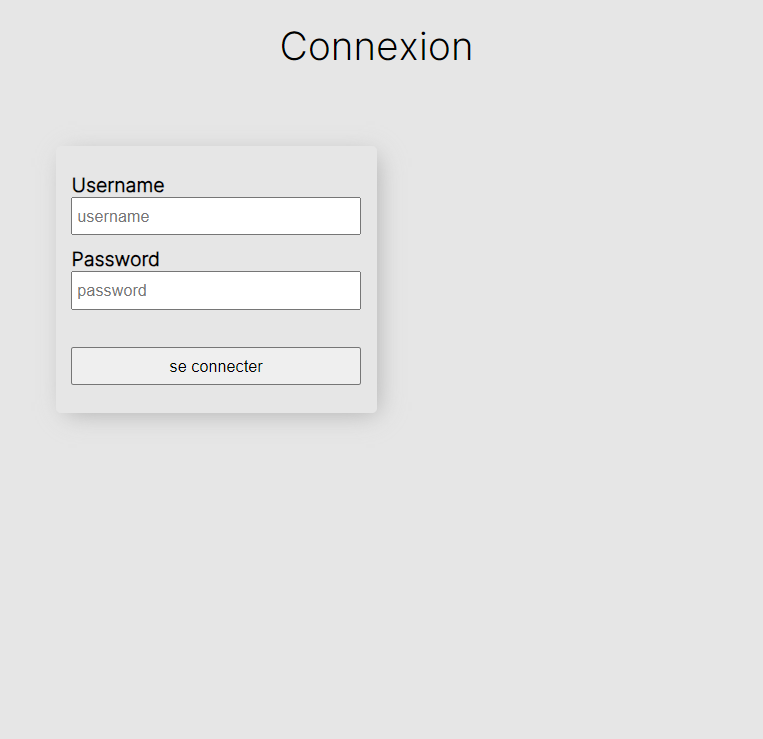
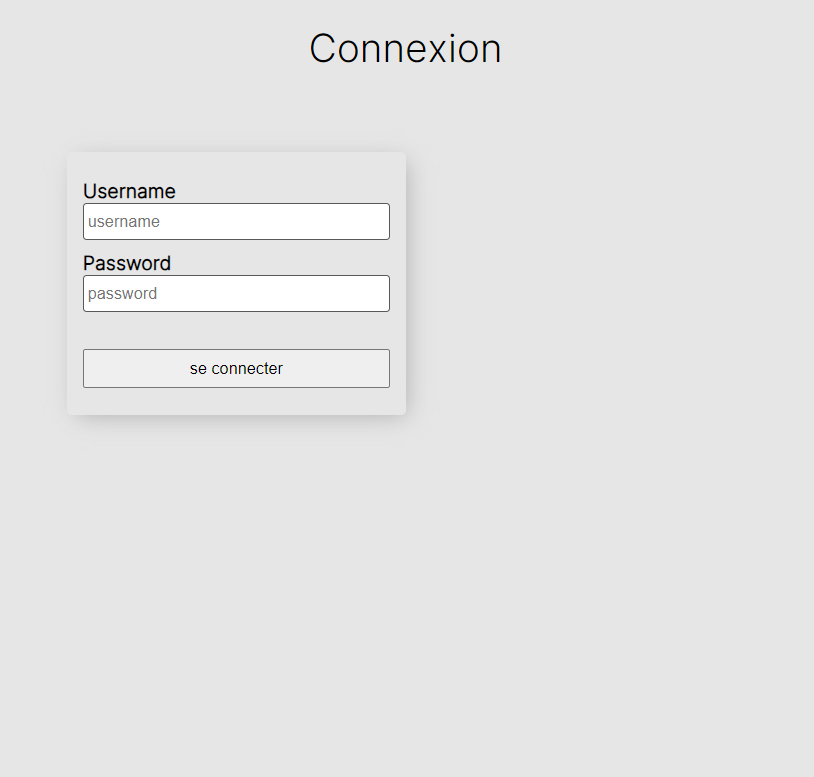
update

diff --git a/public/chat/chat.css b/public/chat/chat.css
@@ -1,55 +1,63 @@
-*{
+* {
     margin: 0;
     box-sizing: border-box;
 }
-.nav-chat ul{
+
+.nav-chat ul {
     padding: 0.2rem;
     display: flex;
-    justify-content:flex-start;
+    justify-content: flex-start;
     gap: 1rem;
     /* align-items: center; */
     list-style: none;
 }
+
 .nav-chat ul li a {
     text-decoration: none;
     color: #0c91ff;
 }
-.nav-chat ul li a:hover{
+
+.nav-chat ul li a:hover {
     text-decoration: underline;
 }
-.content__chat{
+
+.content__chat {
     margin: 0 auto;
     max-width: 50rem;
 
 }
 
-.details-all-users{
+.details-all-users {
     margin-bottom: 1.4rem;
 }
-.details-all-users summary{
+
+.details-all-users summary {
     cursor: pointer;
     margin-bottom: 1.4rem;
 }
-#getAllUsers{
+
+#getAllUsers {
     max-height: 80px;
     overflow-y: auto;
 }
+
 #getAllUsers li {
     display: inline-block;
-    margin:0.15rem;
+    margin: 0.15rem;
     cursor: pointer;
     border: 1px solid #b1b1b1;
     border-radius: 3px;
     padding: 0.1rem;
 }
-#getAllUsers li:hover{
+
+#getAllUsers li:hover {
     /* text-decoration: 1px underline orange; */
     border: 1px solid #ff770f;
 
 }
 
 /* chat */
-.container__chat{
+.container__chat {
     background-color: #f5f5f5;
     max-height: 380px;
     padding: 0.2rem 0.4rem;
@@ -58,30 +66,33 @@
     overflow-y: auto;
 }
 
-.box-chat{
+.box-chat {
     max-width: 320px;
     font-family: 'Raleway', sans-serif;
     color: white;
 }
-.box-chat p{
+
+.box-chat p {
     margin: 0.8rem 0.4rem 0.4rem 0.4rem;
 }
 
-.current-user, .other-user{
+.current-user,
+.other-user {
     position: relative;
-    clear: both; 
+    clear: both;
     margin: 0.4rem 0.3rem;
     padding: 0.3rem;
     box-shadow: 6px 5px 7px 0px #9e9e9e;
 }
 
-.current-user{
+.current-user {
     border-radius: 16px 16px 0 16px;
 
     background-color: #94C2ED;
     float: right;
 }
-.other-user{
+
+.other-user {
     border-radius: 16px 16px 16px 0;
 
     background-color: #86BB71;
@@ -89,35 +100,49 @@
 
 }
 
-.msg-date{
+.msg-date {
     font-size: 8px;
-    font-family:Verdana, Geneva, Tahoma, sans-serif;
+    font-family: Verdana, Geneva, Tahoma, sans-serif;
     position: absolute;
     top: 2px;
     right: 15px;
 }
-.msg-username{
+
+.msg-username {
     font-weight: bold;
 }
 
 /* form */
-#messageContent, #btnSendMessage{
+#messageContent,
+#btnSendMessage {
     width: 100%;
 }
-#messageContent{
+
+#messageContent {
     resize: none;
 }
-#btnSendMessage{
+
+#btnSendMessage {
     cursor: pointer;
 }
 
-.anti-spam{
+.anti-spam {
     border-color: #ff1212eb !important;
     cursor: no-drop !important;
+    color: red !important;
+}
+
+#uiTimer {
+    width: 50px;
+    display: block;
+    text-align: center;
+    margin: 2px auto;
+    font-weight: bold;
+    color: green;
 }
 
 @media screen and (max-width:700px) {
-    .content__chat{
+    .content__chat {
         max-width: initial;
     }
 }

diff --git a/public/asset/css/login.css b/public/asset/css/login.css
@@ -11,6 +11,15 @@
     width: 100%;
     padding: 0.4rem 0.2rem;
     margin-bottom: 0.6rem;
+    border-radius: 3px;
+    border: 1px solid #595959;
+    transition: ease-out .4s;
+    
+}
+#username:focus, #password:focus{
+    outline: none;
+    border: 1px solid #0077ff;
+    transition: ease-out .4s;
 }
 
 label[for="username"], label[for="password"]{

diff --git a/public/chat/chat.js b/public/chat/chat.js
@@ -14,7 +14,7 @@ $(document).ready(function () {
 
     const intervalAntiSpam          = 1000; // ms
     let currentAntiSpam             = 3;    // s
-    const enabledAntiSpam           = false;
+    const enabledAntiSpam           = true;
     
     const intervalRefrashAllUsers   = 15000; // ms
 

diff --git a/public/chat/chat.php b/public/chat/chat.php
@@ -11,9 +11,6 @@ if (!$app->isAuth()) {
     return $app->alert('Connexion required', 'warning')->redirect('/index.php');
 }
 
-// var_dump($userModel->checkUsersOnline());
-
-// var_dump($chatModel->getLastMessagesAfterDate('16:24:56 24/10/2023'));
 // var_dump($chatModel->deleteAllMessage(true));
 
 // Lorem ipsum dolor sit amet consectetur adipisicing elit. Consectetur explicabo unde obcaecati, at dolorum distinctio et dicta quae vel tempora architecto similique officia quam laborum hic officiis voluptates impedit eos?
